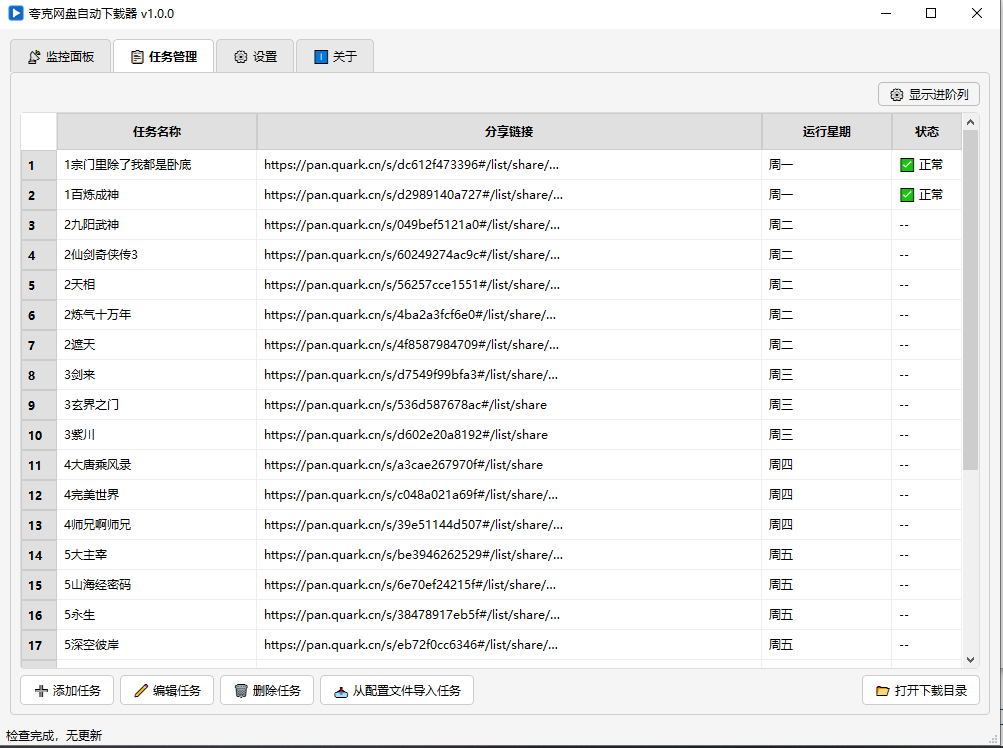
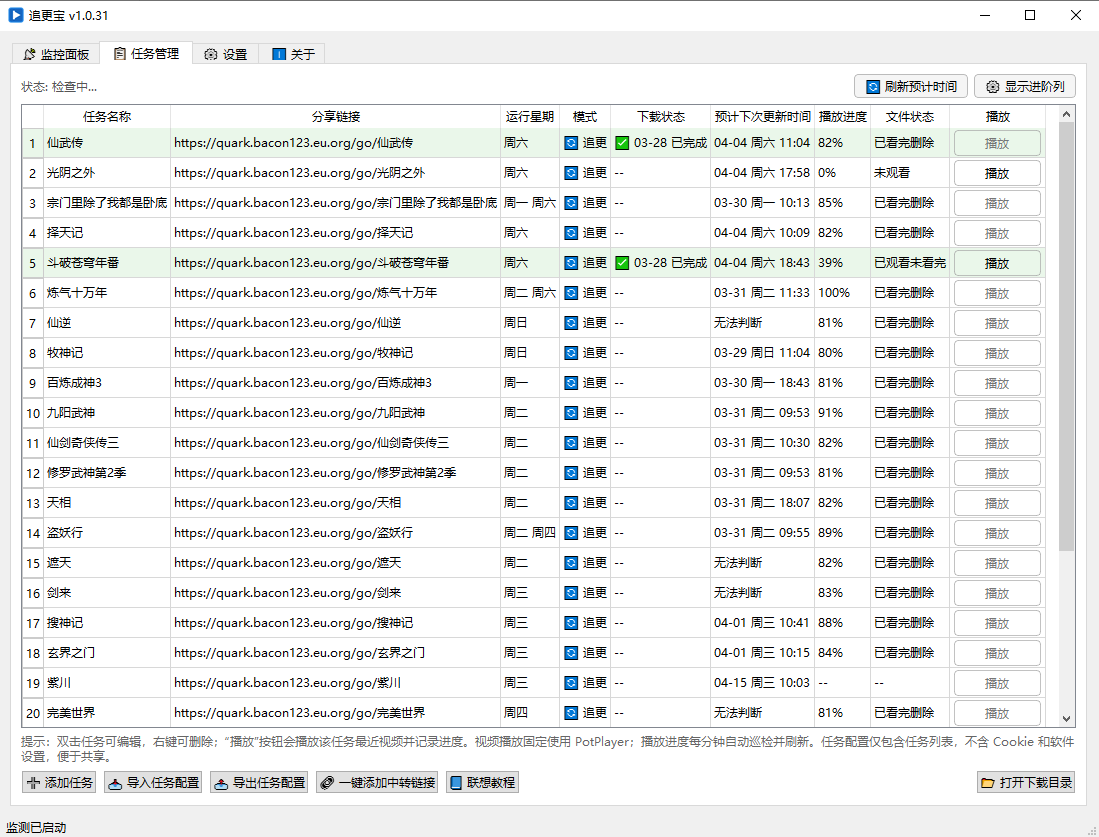
public: refresh README screenshots and branding

Changed region(s): [[0.0, 0.0, 1.0, 1.0], [0.3091, 0.0615, 0.34, 0.0922]]

diff --git a/README.md b/README.md
@@ -1,15 +1,15 @@
 <div align="center">
 
-# 🚀 夸克网盘自动下载器
+# 🚀 追更宝
 
-**自动监测夸克网盘分享链接更新，发现新文件自动下载到本地**
+**夸克网盘自动追更下载工具，自动监测分享链接更新并下载到本地**
 
 [![Release](https://img.shields.io/github/v/release/ypq123456789/quark-auto-save-downloader?style=for-the-badge&color=blue)](https://github.com/ypq123456789/quark-auto-save-downloader/releases/latest)
 [![Downloads](https://img.shields.io/github/downloads/ypq123456789/quark-auto-save-downloader/total?style=for-the-badge&color=green)](https://github.com/ypq123456789/quark-auto-save-downloader/releases)
 [![License](https://img.shields.io/badge/License-Proprietary-red?style=for-the-badge)](LICENSE)
 [![Platform](https://img.shields.io/badge/Platform-Windows-0078D6?style=for-the-badge&logo=windows)](https://github.com/ypq123456789/quark-auto-save-downloader/releases)
 
-<img src="https://raw.githubusercontent.com/ypq123456789/quark-auto-save-downloader/main/screenshots/监控面板.png" width="700" alt="监控面板截图">
+<img src="screenshots/监控面板.png" width="700" alt="追更宝监控面板截图">
 
 </div>
 
@@ -31,7 +31,7 @@
 - ⚡ **多线程下载** — 8 线程并发分片下载，充分利用带宽
 - 📊 **实时进度** — 下载速度、进度条、剩余时间一目了然
 - 🔔 **系统通知** — 新文件下载完成后弹出 Windows 通知，点击通知打开下载文件夹
-- � **追更模式** — 只保存当天更新文件，自动清理旧文件，节省磁盘空间
+- 🗑 **智能删除** — 优先按 PotPlayer 播放进度在看到 80% 后自动清理；不想安装播放器时也可按天数自动删除旧文件
 - 📦 **全存模式** — 将链接内所有文件保存到独立子文件夹，适合一次性归档
 - 📋 **可视化任务管理** — 双击编辑、右键菜单、显示运行模式，操作直观
 - 🔄 **远程同步** — 支持从远程 URL 自动同步任务配置
@@ -55,42 +55,38 @@
 
 ---
 
-## � 软件截图
+## 📸 软件截图
+
+> 当前仓库展示截图已切换为本地 `screenshots/` 素材，方便和 README 一起同步更新。
 
 | 监控面板 | 任务管理 |
 |----------|----------|
-| ![监控面板](https://raw.githubusercontent.com/ypq123456789/quark-auto-save-downloader/main/screenshots/监控面板.png) | ![任务管理](https://raw.githubusercontent.com/ypq123456789/quark-auto-save-downloader/main/screenshots/任务管理.png) |
+| ![追更宝监控面板](screenshots/监控面板.png) | ![追更宝任务管理](screenshots/任务管理.png) |
 
 | 设置 | 关于 |
 |------|------|
-| ![设置](https://raw.githubusercontent.com/ypq123456789/quark-auto-save-downloader/main/screenshots/设置.png) | ![关于](https://raw.githubusercontent.com/ypq123456789/quark-auto-save-downloader/main/screenshots/关于.png) |
+| ![追更宝设置](screenshots/设置.png) | ![追更宝关于](screenshots/关于.png) |
 
 ---
 
-## �🚀 快速开始
+## 🚀 快速开始
 
-### 第一步：获取 Cookie
+### 第一步：扫码登录获取 Cookie
 
-Cookie 是程序访问你夸克网盘账号的凭证，获取方法：
-
-1. 打开浏览器，访问 [pan.quark.cn](https://pan.quark.cn) 并**登录账号**
-2. 按 `F12` 打开开发者工具
-3. 切换到 **`Network`（网络）** 标签
-4. 在页面上随便点击一下，等左侧出现请求列表
-5. 点击任意一条请求，在右侧找到 **`Request Headers`** → **`Cookie`** 字段
-6. 复制完整的 Cookie 值（很长，全部复制）
-
-### 第二步：填写 Cookie 并验证
+Cookie 是程序访问你夸克网盘账号的凭证。当前推荐的新流程不需要 F12 手动复制：
 
 1. 打开软件，进入 **⚙ 设置** 页面
-2. 将 Cookie 粘贴到「账号设置」输入框
-3. 点击「**验证 Cookie**」，显示绑定的账号名即为成功
+2. 点击「**一键获取 Cookie**」
+3. 在弹出的登录页里用夸克 App 扫码登录
+4. 等待 Cookie 自动回填，并点击「**保存设置**」
+5. 如需看图文步骤，可直接点击软件里的「**登录教程**」按钮
 
-### 第三步：添加监测任务
+### 第二步：添加监测任务
 
-进入 **📋 任务管理** 页面，点击「**添加任务**」，填写任务名和分享链接，点「确定」保存。
+进入 **📋 任务管理** 页面，点击「**添加任务**」，输入任务名称后可自动联想中转资源，点「确定」保存。
+如需看图文步骤，可直接点击任务弹窗里的「**联想教程**」按钮。
 
-### 第四步：启动监测
+### 第三步：启动监测
 
 进入 **📡 监控面板**，点击「**启动监测**」，程序立即开始第一次检测，之后按设置的间隔自动运行。
 
@@ -102,8 +98,10 @@ Cookie 是程序访问你夸克网盘账号的凭证，获取方法：
 
 | 配置项 | 说明 |
 |--------|------|
-| **Cookie** | 夸克网盘账号的登录凭证，用于下载文件。Cookie 通常 30 天左右过期，过期后需重新获取并更新 |
+| **Cookie** | 夸克网盘账号的登录凭证，用于下载文件。推荐直接用「一键获取 Cookie」扫码登录自动回填，过期后重新扫码即可 |
 | **验证 Cookie** | 点击后连接夸克服务器验证 Cookie 有效性，并显示绑定的账号昵称 |
+| **登录教程** | 打开文档站里“扫码登录获取 Cookie（新流程）”对应教程 |
+| **联想教程** | 打开文档站里“任务名称联想怎么用”对应教程 |
 
 ### 下载设置
 
@@ -125,7 +123,7 @@ Cookie 是程序访问你夸克网盘账号的凭证，获取方法：
 |--------|------|
 | **任务名称** | 任务的标识名，会出现在下载文件名中（格式：`日期-任务名-文件名`） |
 | **分享链接** | 支持夸克直链（`https://pan.quark.cn/s/xxxxxxxxxx`）和中转链接（非夸克域名，访问后会跳转到夸克链接） |
-| **运行模式** | **追更模式**：只保存当天更新的文件，旧文件自动清理，适合追剧/追番；**全存模式**：下载链接内所有文件到独立子文件夹，适合一次性归档资源 |
+| **运行模式** | **追更模式**：只保存最近更新的文件，优先按 PotPlayer 播放进度在看到 80% 后智能删除；未启用 PotPlayer 时按“追更保留天数”自动清理旧文件，适合追剧/追番；**全存模式**：下载链接内所有文件到独立子文件夹，适合一次性归档资源 |
 | **更新星期** | 勾选哪几天运行此任务。例如只勾「周五周六周日」适合只在周末更新的剧集。**全不勾选等同于每天都运行** |
 
 #### 进阶配置（点击「▶ 进阶选项」展开）
@@ -185,7 +183,7 @@ Cookie 是程序访问你夸克网盘账号的凭证，获取方法：
 2026-03-02-某纪录片-第1集.mp4
 ```
 
-程序每天自动清理**前一天**的文件，只保留最新下载的内容，避免占用过多磁盘空间。
+追更模式默认只保留最近更新的内容。若已启用 PotPlayer 并开启“记忆播放进度”，视频看到 80% 后会自动清理；如果不想安装 PotPlayer，则按“追更保留天数”自动清理旧文件，避免占用过多磁盘空间。
 
 ### 📦 全存模式
 
@@ -241,7 +239,7 @@ docker cp 容器名:/app/data/quark_config.json ./quark_config.json
 <details>
 <summary><b>Q: Cookie 过期了怎么办？</b></summary>
 
-Cookie 通常 30 天左右过期。过期后软件日志会提示验证失败，重新在浏览器复制最新 Cookie，粘贴到设置页保存即可。
+Cookie 过期后，优先重新点击「一键获取 Cookie」扫码登录即可；也可以手动粘贴新的 Cookie 后再保存。
 </details>
 
 <details>
@@ -288,7 +286,7 @@ Cookie 通常 30 天左右过期。过期后软件日志会提示验证失败，
 | **适用场景** | 连载追剧/追番，只关心最新更新 | 一次性归档整个资源包 |
 | **保存位置** | 下载目录根目录 | 下载目录 / 任务名称 / 子文件夹 |
 | **文件命名** | `日期-任务名-原文件名` | 原文件名（不加日期前缀） |
-| **自动清理** | ✅ 每天清理前一天文件 | ❌ 不清理，保留所有文件 |
+| **自动清理** | ✅ 优先按 PotPlayer 播放进度 80% 智能删除；未启用 PotPlayer 时按“追更保留天数”清理旧文件 | ❌ 不清理，保留所有文件 |
 | **检测范围** | 只检测当天新增文件 | 检测链接内所有文件 |
 
 </details>
